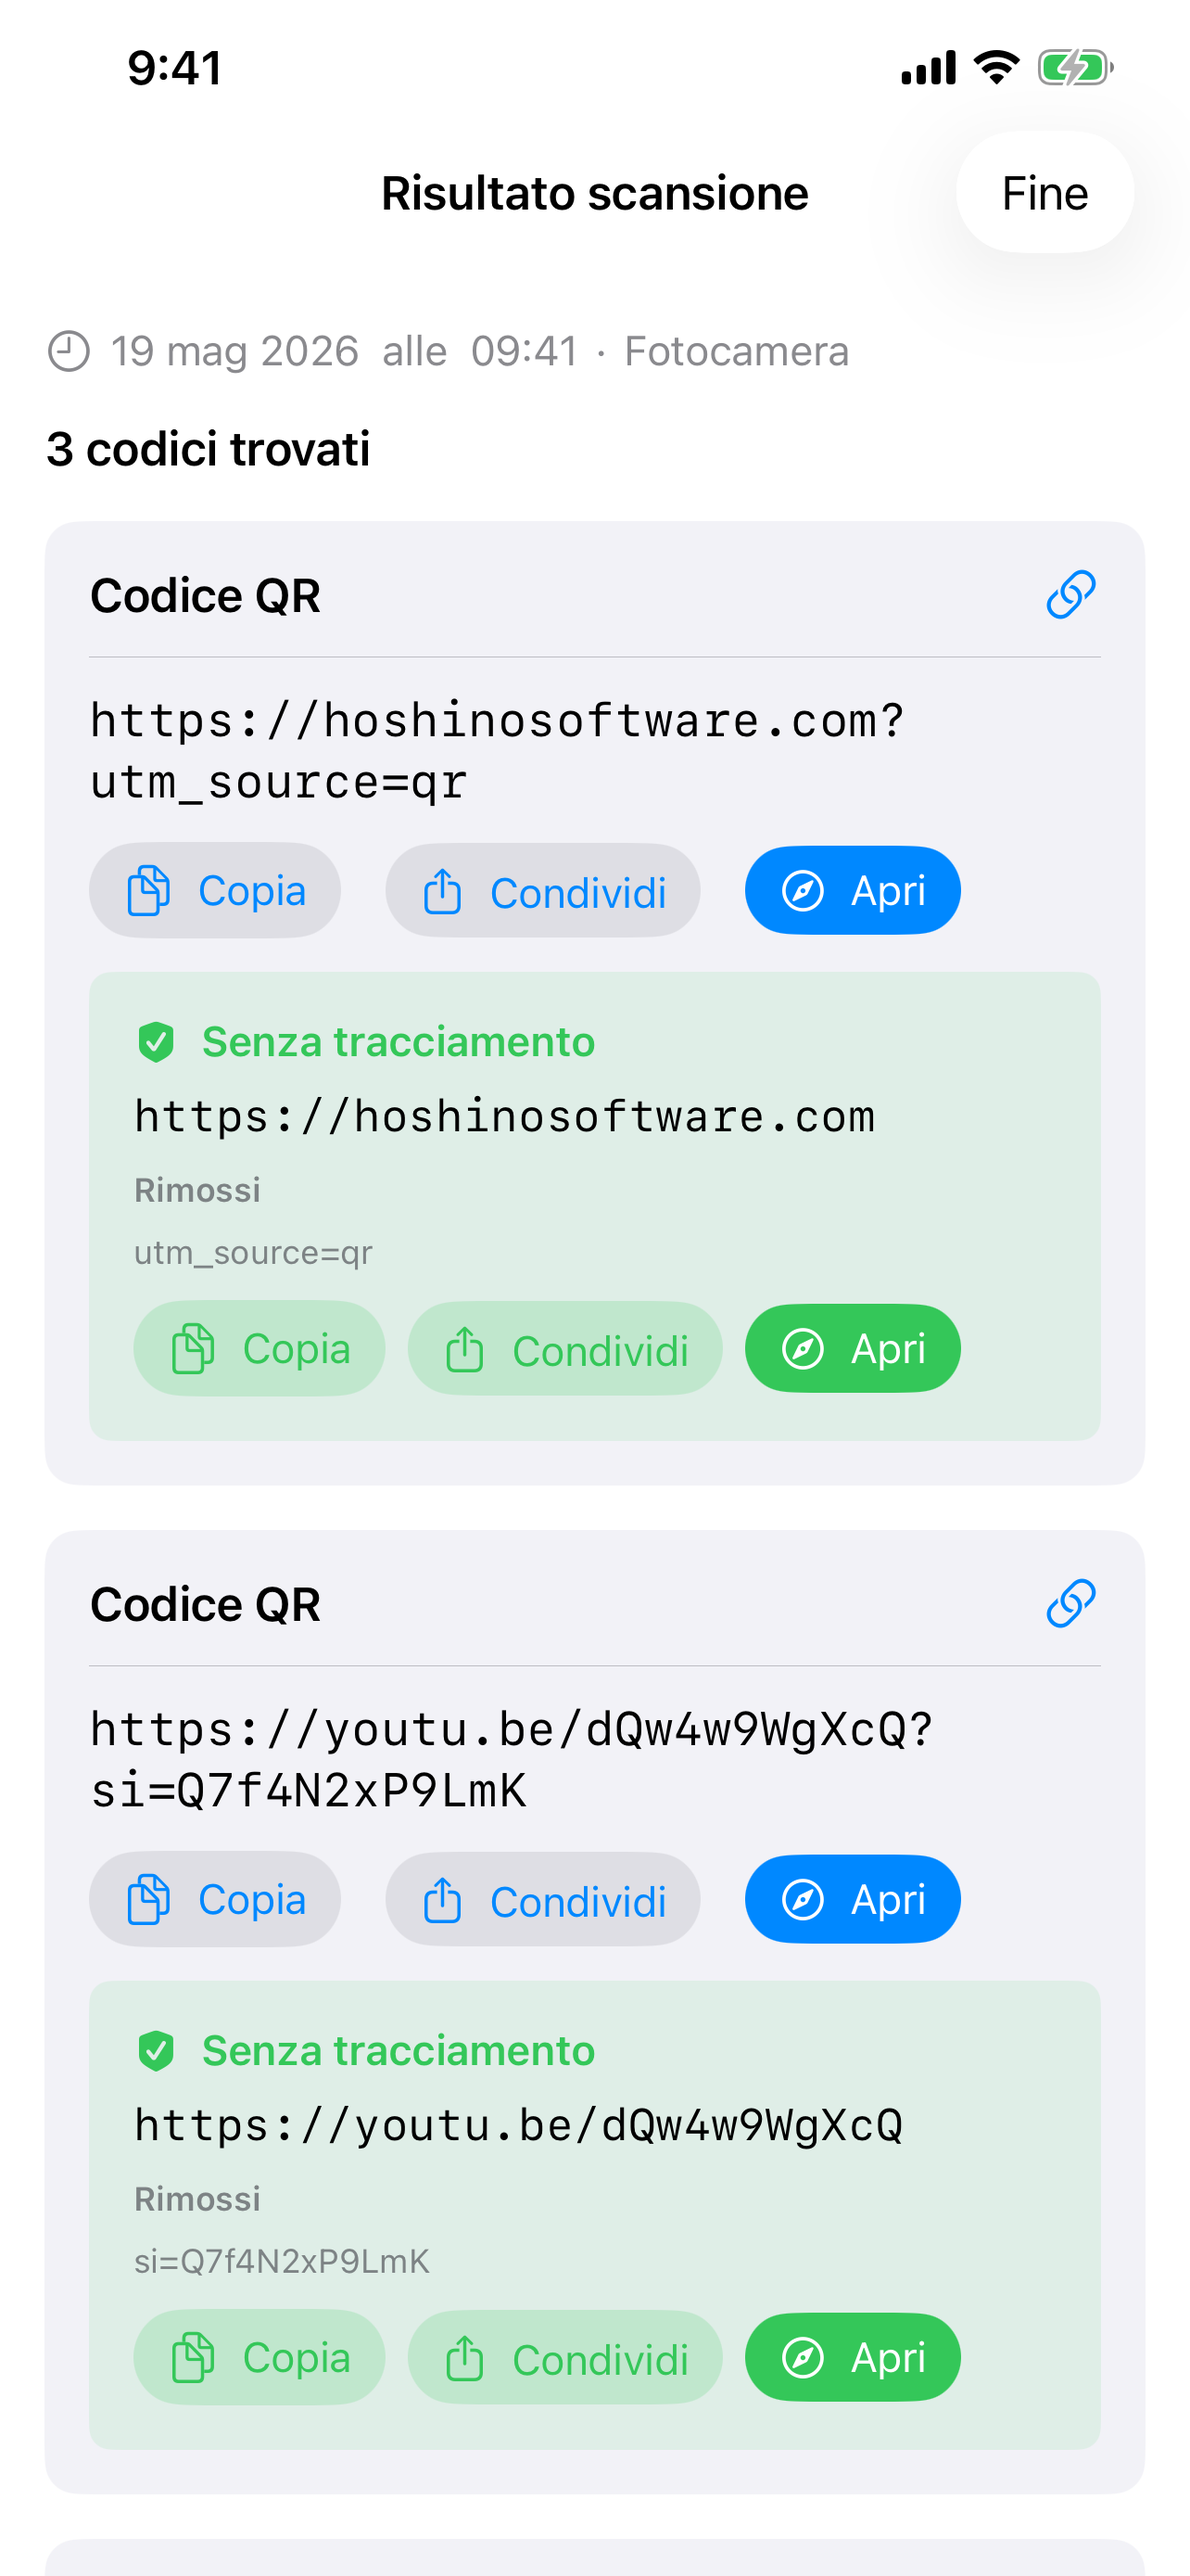
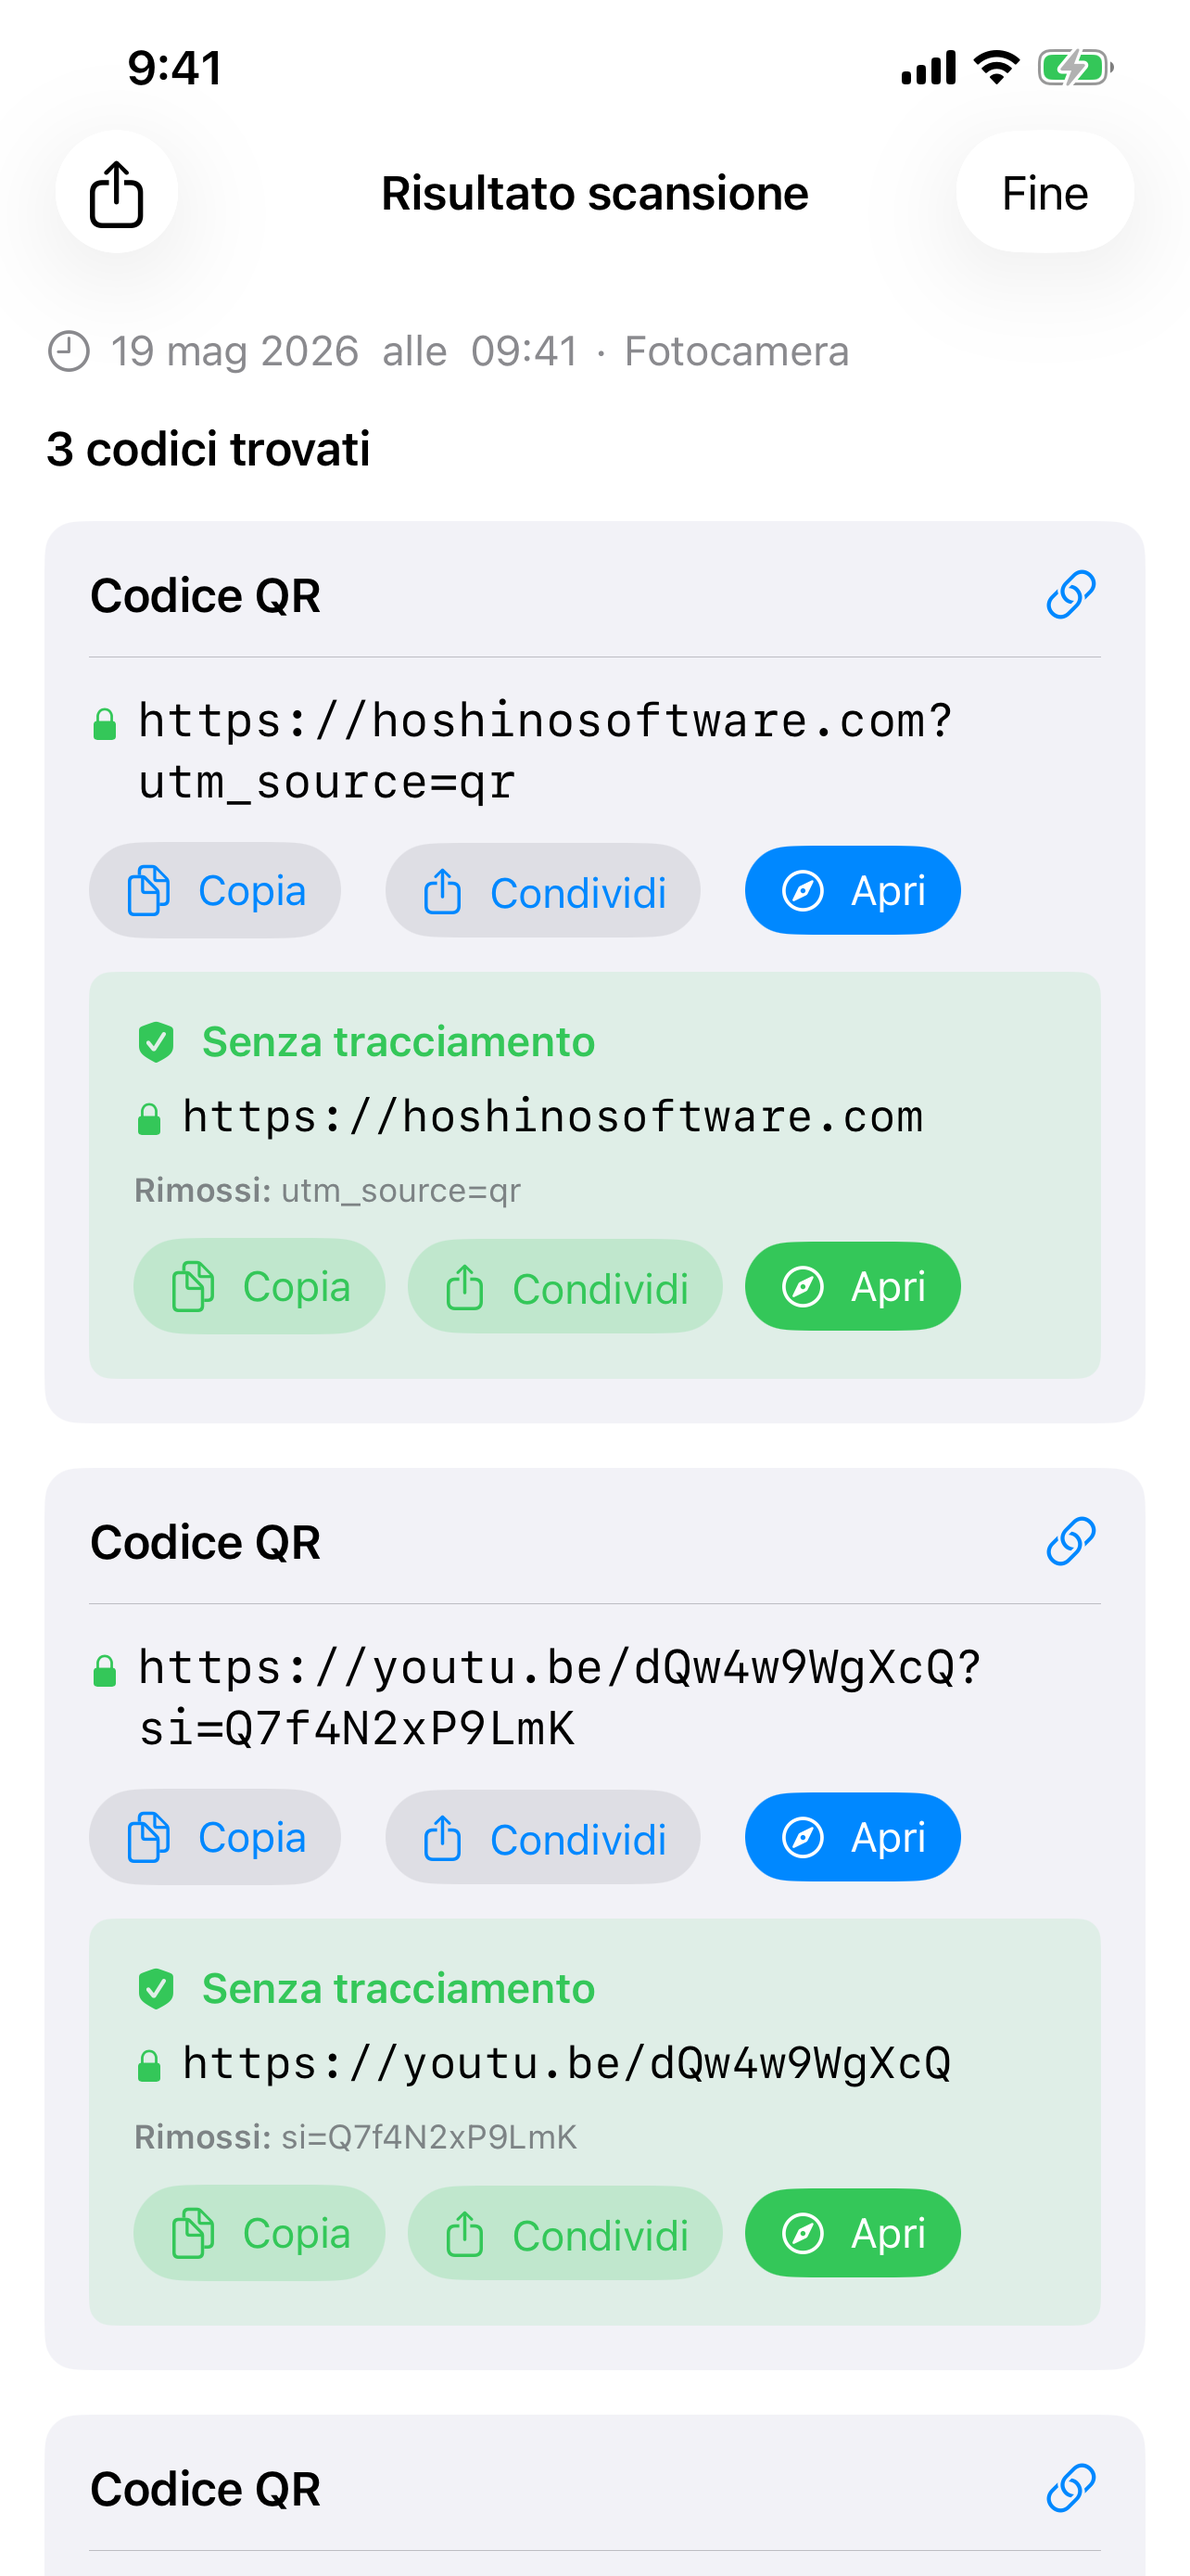
Update the Code Reader screenshots and drop the share flow GIF

diff --git a/docs/codereader/es/index.html b/docs/codereader/es/index.html
@@ -90,7 +90,6 @@ La app funciona sin conexión, no almacena nada en la nube y nunca muestra anunc
 <h2 class="section-h2 section-anchor" id="manual">Manual</h2>
 <div class="screenshots">
   <img src="../images/screenshots/es/camera.png" alt="Pantalla cámara">
-  <img src="../images/screenshots/es/share.gif" alt="Flujo de acción para compartir">
   <img src="../images/screenshots/es/result.png" alt="Pantalla resultado">
 </div>
 <h3>Cámara</h3>

diff --git a/docs/codereader/pt/index.html b/docs/codereader/pt/index.html
@@ -90,7 +90,6 @@ O app funciona offline, não armazena nada na nuvem e nunca exibe anúncios.</p>
 <h2 class="section-h2 section-anchor" id="manual">Manual</h2>
 <div class="screenshots">
   <img src="../images/screenshots/pt/camera.png" alt="Tela câmera">
-  <img src="../images/screenshots/pt/share.gif" alt="Fluxo da ação de compartilhamento">
   <img src="../images/screenshots/pt/result.png" alt="Tela resultado">
 </div>
 <h3>Câmera</h3>

diff --git a/docs/codereader/fr/index.html b/docs/codereader/fr/index.html
@@ -119,7 +119,6 @@ L'app fonctionne hors ligne, ne stocke rien dans le cloud et n'affiche jamais de
 
 <div class="screenshots">
   <img src="../images/screenshots/fr/camera.png" alt="Écran caméra">
-  <img src="../images/screenshots/fr/share.gif" alt="Flux d’action de partage">
   <img src="../images/screenshots/fr/result.png" alt="Écran résultat">
 </div>
 

diff --git a/docs/codereader/de/index.html b/docs/codereader/de/index.html
@@ -111,7 +111,6 @@ Die App funktioniert vollständig offline, speichert nichts in der Cloud und zei
 
 <div class="screenshots">
   <img src="../images/screenshots/de/camera.png" alt="Kamera-Bildschirm">
-  <img src="../images/screenshots/de/share.gif" alt="Teilen-Aktion">
   <img src="../images/screenshots/de/result.png" alt="Scan-Ergebnis-Bildschirm">
 </div>
 

diff --git a/docs/codereader/en/index.html b/docs/codereader/en/index.html
@@ -119,7 +119,6 @@ No ads, no tracking. Remove trackers, scan multiple codes, and share images from
 
 <div class="screenshots">
   <img src="../images/screenshots/en/camera.png" alt="Camera screen">
-  <img src="../images/screenshots/en/share.gif" alt="Share sheet action flow">
   <img src="../images/screenshots/en/result.png" alt="Scan result screen">
 </div>
 

diff --git a/docs/codereader/ar/index.html b/docs/codereader/ar/index.html
@@ -113,7 +113,6 @@
 
 <div class="screenshots">
   <img src="../images/screenshots/ar/camera.png" alt="شاشة الكاميرا">
-  <img src="../images/screenshots/ar/share.gif" alt="تدفق إجراء ورقة المشاركة">
   <img src="../images/screenshots/ar/result.png" alt="شاشة نتيجة المسح">
 </div>
 

diff --git a/docs/codereader/ja/index.html b/docs/codereader/ja/index.html
@@ -111,7 +111,6 @@
 
 <div class="screenshots">
   <img src="../images/screenshots/ja/camera.png" alt="カメラ画面">
-  <img src="../images/screenshots/ja/share.gif" alt="共有アクションの流れ">
   <img src="../images/screenshots/ja/result.png" alt="スキャン結果画面">
 </div>
 

diff --git a/docs/codereader/zh-hans/index.html b/docs/codereader/zh-hans/index.html
@@ -111,7 +111,6 @@
 
 <div class="screenshots">
   <img src="../images/screenshots/zh-hans/camera.png" alt="相机界面">
-  <img src="../images/screenshots/zh-hans/share.gif" alt="共享操作流程">
   <img src="../images/screenshots/zh-hans/result.png" alt="扫描结果界面">
 </div>
 

diff --git a/docs/codereader/zh-hant/index.html b/docs/codereader/zh-hant/index.html
@@ -111,7 +111,6 @@
 
 <div class="screenshots">
   <img src="../images/screenshots/zh-hant/camera.png" alt="相機界面">
-  <img src="../images/screenshots/zh-hant/share.gif" alt="分享動作流程">
   <img src="../images/screenshots/zh-hant/result.png" alt="掃描結果界面">
 </div>
 

diff --git a/docs/codereader/tr/index.html b/docs/codereader/tr/index.html
@@ -111,7 +111,6 @@
 
 <div class="screenshots">
   <img src="../images/screenshots/tr/camera.png" alt="Kamera ekranı">
-  <img src="../images/screenshots/tr/share.gif" alt="Paylaşma eylemi akışı">
   <img src="../images/screenshots/tr/result.png" alt="Tarama sonucu ekranı">
 </div>
 

diff --git a/docs/codereader/ko/index.html b/docs/codereader/ko/index.html
@@ -111,7 +111,6 @@
 
 <div class="screenshots">
   <img src="../images/screenshots/ko/camera.png" alt="카메라 화면">
-  <img src="../images/screenshots/ko/share.gif" alt="공유 동작 흐름">
   <img src="../images/screenshots/ko/result.png" alt="스캔 결과 화면">
 </div>
 
